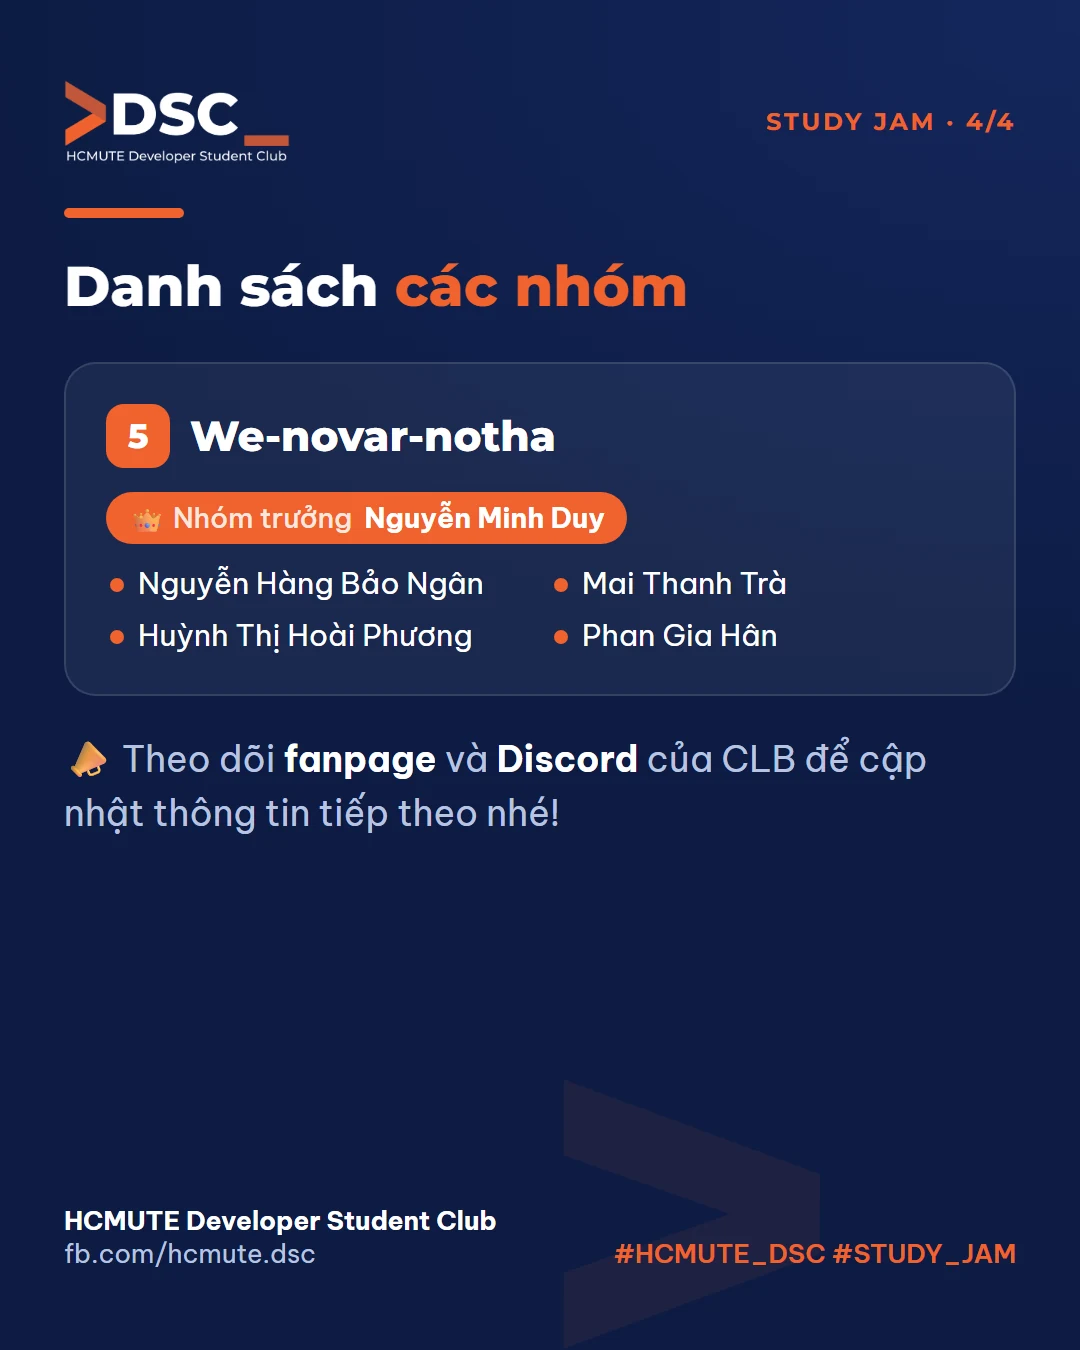
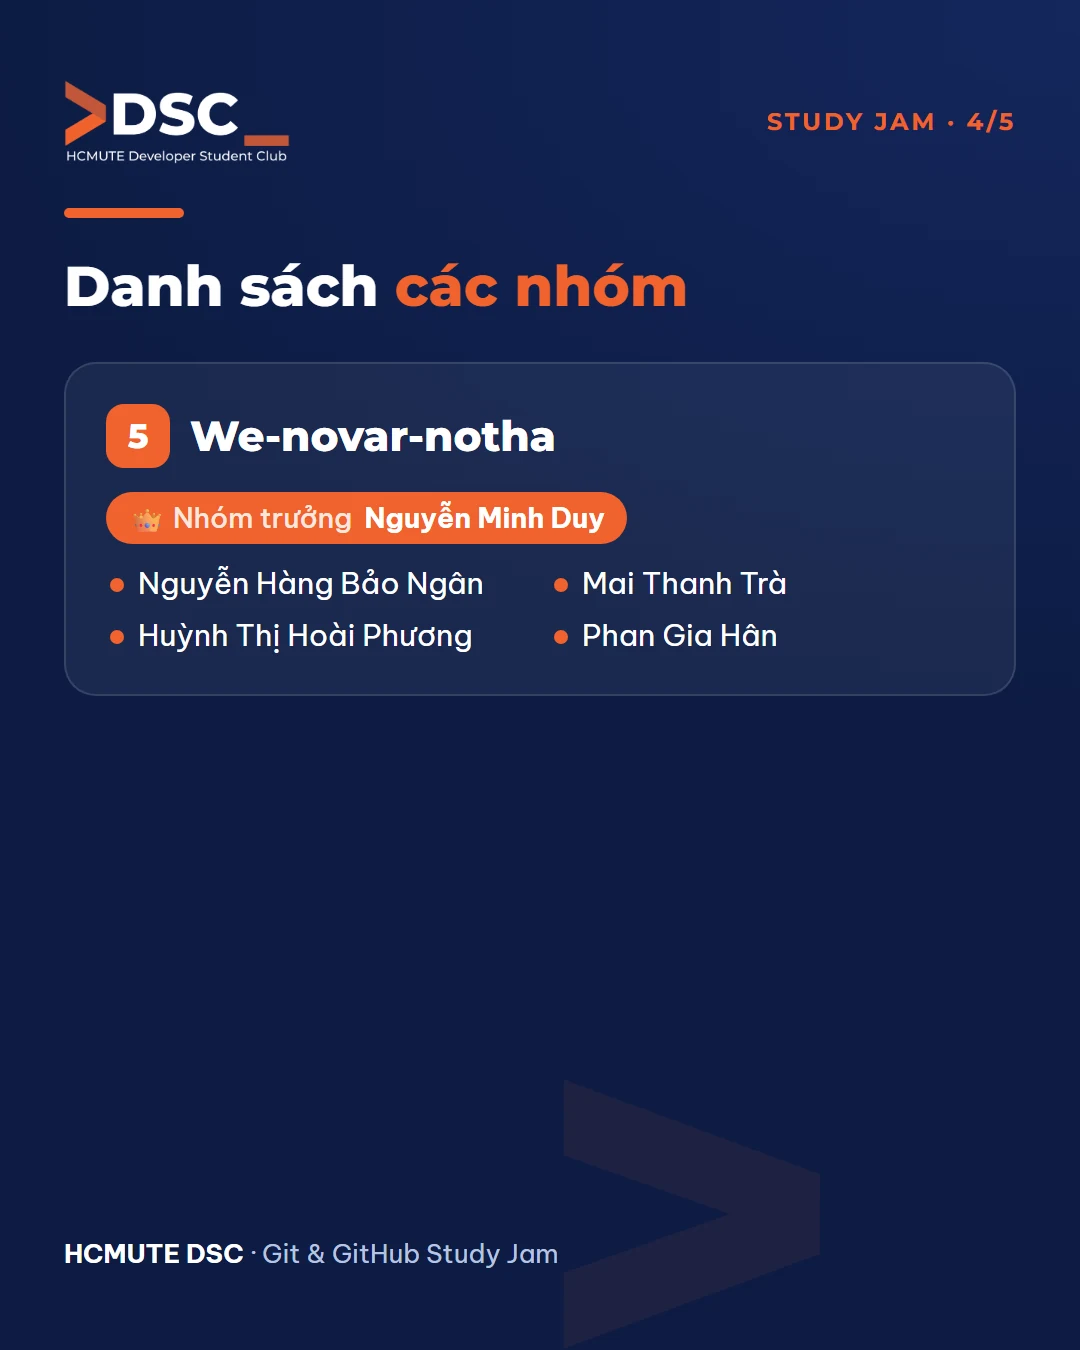
News: add the mentor slide to the Study Jam teams post
Slide 6 lists the three mentors and holds the follow-us note; the post text
has a matching mentor section.

diff --git a/design/news/2026-11-21-study-jam-teams.html b/design/news/2026-11-21-study-jam-teams.html
@@ -78,6 +78,11 @@
   .card .v { font: 800 40px/1.15 "Montserrat", sans-serif; }
   .card .s { font-size: 27px; line-height: 1.4; color: var(--muted); margin-top: 8px; }
   .card .s b { color: var(--ink); }
+  .mentors { display: flex; flex-direction: column; gap: 20px; margin-top: 32px; position: relative; z-index: 1; }
+  .mentor { display: flex; align-items: center; gap: 32px; background: rgba(255,255,255,.06); border: 2px solid rgba(255,255,255,.12); border-radius: 32px; padding: 26px 40px; }
+  .avatar { flex: none; width: 100px; height: 100px; border-radius: 50%; background: var(--orange); font-size: 52px; line-height: 100px; text-align: center; }
+  .mentor .name { font: 800 46px/1.2 "Montserrat", sans-serif; }
+  .mentor .role { font-size: 28px; color: var(--orange); font-weight: 600; margin-top: 6px; letter-spacing: .04em; }
   .prizes { display: grid; grid-template-columns: repeat(4, 1fr); gap: 16px; margin-top: 20px; }
   .prize { background: rgba(240,98,45,.14); border: 2px solid rgba(240,98,45,.55); border-radius: 20px; padding: 18px 8px; text-align: center; }
   .prize .r { font-size: 24px; color: var(--muted); }
@@ -108,7 +113,7 @@
 <!-- ============ ẢNH 2 · THÔNG TIN CHƯƠNG TRÌNH ============ -->
 <p class="label">Ảnh 2 · Thông tin chương trình</p>
 <section class="slide" id="s2">
-  <div class="top"><img src="../../static/img/logo/hcmute-dsc-logo-dark.png" alt="HCMUTE DSC"><span class="tag">STUDY JAM · 1/4</span></div>
+  <div class="top"><img src="../../static/img/logo/hcmute-dsc-logo-dark.png" alt="HCMUTE DSC"><span class="tag">STUDY JAM · 1/5</span></div>
   <div class="bar"></div>
   <h2>Thông tin <em>chương trình</em></h2>
   <div class="info">
@@ -134,7 +139,7 @@
 <!-- ============ ẢNH 3 · NHÓM 1-2 ============ -->
 <p class="label">Ảnh 3 · Nhóm 1 – 2</p>
 <section class="slide" id="s3">
-  <div class="top"><img src="../../static/img/logo/hcmute-dsc-logo-dark.png" alt="HCMUTE DSC"><span class="tag">STUDY JAM · 2/4</span></div>
+  <div class="top"><img src="../../static/img/logo/hcmute-dsc-logo-dark.png" alt="HCMUTE DSC"><span class="tag">STUDY JAM · 2/5</span></div>
   <div class="bar"></div>
   <h2>Danh sách <em>các nhóm</em></h2>
   <div class="teams">
@@ -160,7 +165,7 @@
 <!-- ============ ẢNH 4 · NHÓM 3-4 ============ -->
 <p class="label">Ảnh 4 · Nhóm 3 – 4</p>
 <section class="slide" id="s4">
-  <div class="top"><img src="../../static/img/logo/hcmute-dsc-logo-dark.png" alt="HCMUTE DSC"><span class="tag">STUDY JAM · 3/4</span></div>
+  <div class="top"><img src="../../static/img/logo/hcmute-dsc-logo-dark.png" alt="HCMUTE DSC"><span class="tag">STUDY JAM · 3/5</span></div>
   <div class="bar"></div>
   <h2>Danh sách <em>các nhóm</em></h2>
   <div class="teams">
@@ -187,7 +192,7 @@
 <!-- ============ ẢNH 5 · NHÓM 5 + NHẮC THEO DÕI ============ -->
 <p class="label">Ảnh 5 · Nhóm 5 + nhắc theo dõi</p>
 <section class="slide" id="s5">
-  <div class="top"><img src="../../static/img/logo/hcmute-dsc-logo-dark.png" alt="HCMUTE DSC"><span class="tag">STUDY JAM · 4/4</span></div>
+  <div class="top"><img src="../../static/img/logo/hcmute-dsc-logo-dark.png" alt="HCMUTE DSC"><span class="tag">STUDY JAM · 4/5</span></div>
   <div class="bar"></div>
   <h2>Danh sách <em>các nhóm</em></h2>
   <div class="teams">
@@ -199,6 +204,21 @@
         <li>Huỳnh Thị Hoài Phương</li><li>Phan Gia Hân</li>
       </ul>
     </div>
+  </div>
+  <div class="footer"><span><b>HCMUTE DSC</b> · Git &amp; GitHub Study Jam</span></div>
+</section>
+
+<!-- ============ ẢNH 6 · MENTOR + NHẮC THEO DÕI ============ -->
+<p class="label">Ảnh 6 · Mentor + nhắc theo dõi</p>
+<section class="slide" id="s6">
+  <div class="top"><img src="../../static/img/logo/hcmute-dsc-logo-dark.png" alt="HCMUTE DSC"><span class="tag">STUDY JAM · 5/5</span></div>
+  <div class="bar"></div>
+  <h2>Đội ngũ <em>mentor</em></h2>
+  <p class="lead" style="margin-top:24px">Đồng hành cùng các nhóm trong suốt chương trình.</p>
+  <div class="mentors">
+    <div class="mentor"><div class="avatar">🎓</div><div><div class="name">Võ Trần Minh Quân</div><div class="role">MENTOR</div></div></div>
+    <div class="mentor"><div class="avatar">🎓</div><div><div class="name">Võ Hoàng Tú</div><div class="role">MENTOR</div></div></div>
+    <div class="mentor"><div class="avatar">🎓</div><div><div class="name">Huỳnh Trang</div><div class="role">MENTOR</div></div></div>
   </div>
   <p class="thanks">📣 Theo dõi <b>fanpage</b> và <b>Discord</b> của CLB để cập nhật thông tin tiếp theo nhé!</p>
   <div class="footer">

diff --git a/news/2026-11-21-cong-bo-danh-sach-cac-nhom-tham-gia-git-github-study-jam/index.md b/news/2026-11-21-cong-bo-danh-sach-cac-nhom-tham-gia-git-github-study-jam/index.md
@@ -74,6 +74,14 @@ description: "Sau thời gian đăng ký, HCMUTE DSC ghi nhận 5 nhóm tham gia
 - Huỳnh Thị Hoài Phương
 - Phan Gia Hân
 
+### 🎓 Đội ngũ mentor
+
+Đồng hành cùng các nhóm trong suốt chương trình:
+
+- Võ Trần Minh Quân
+- Võ Hoàng Tú
+- Huỳnh Trang
+
 🚀 Chúc các nhóm có thật nhiều niềm vui, học được nhiều điều bổ ích và cùng nhau hoàn thành thật tốt chương trình. Hãy theo dõi fanpage và máy chủ Discord của CLB để cập nhật những thông tin tiếp theo nhé!
 
 \_\_\_\_\_\_\_\_\_\_\_\_\_\_\_\_\_\_\_\_\_\_\_\_\_\_\_\_\_\_\_\_\_\_\_\_\_\_\_\_\_\_\_\_\_  
@@ -86,5 +94,6 @@ Mọi ý kiến đóng góp, các bạn có thể liên hệ trực tiếp thôn
 ![Git & GitHub Study Jam | Công bố danh sách các nhóm tham gia (3)](./img-3.webp)
 ![Git & GitHub Study Jam | Công bố danh sách các nhóm tham gia (4)](./img-4.webp)
 ![Git & GitHub Study Jam | Công bố danh sách các nhóm tham gia (5)](./img-5.webp)
+![Git & GitHub Study Jam | Công bố danh sách các nhóm tham gia (6)](./img-6.webp)
 
 </div>
